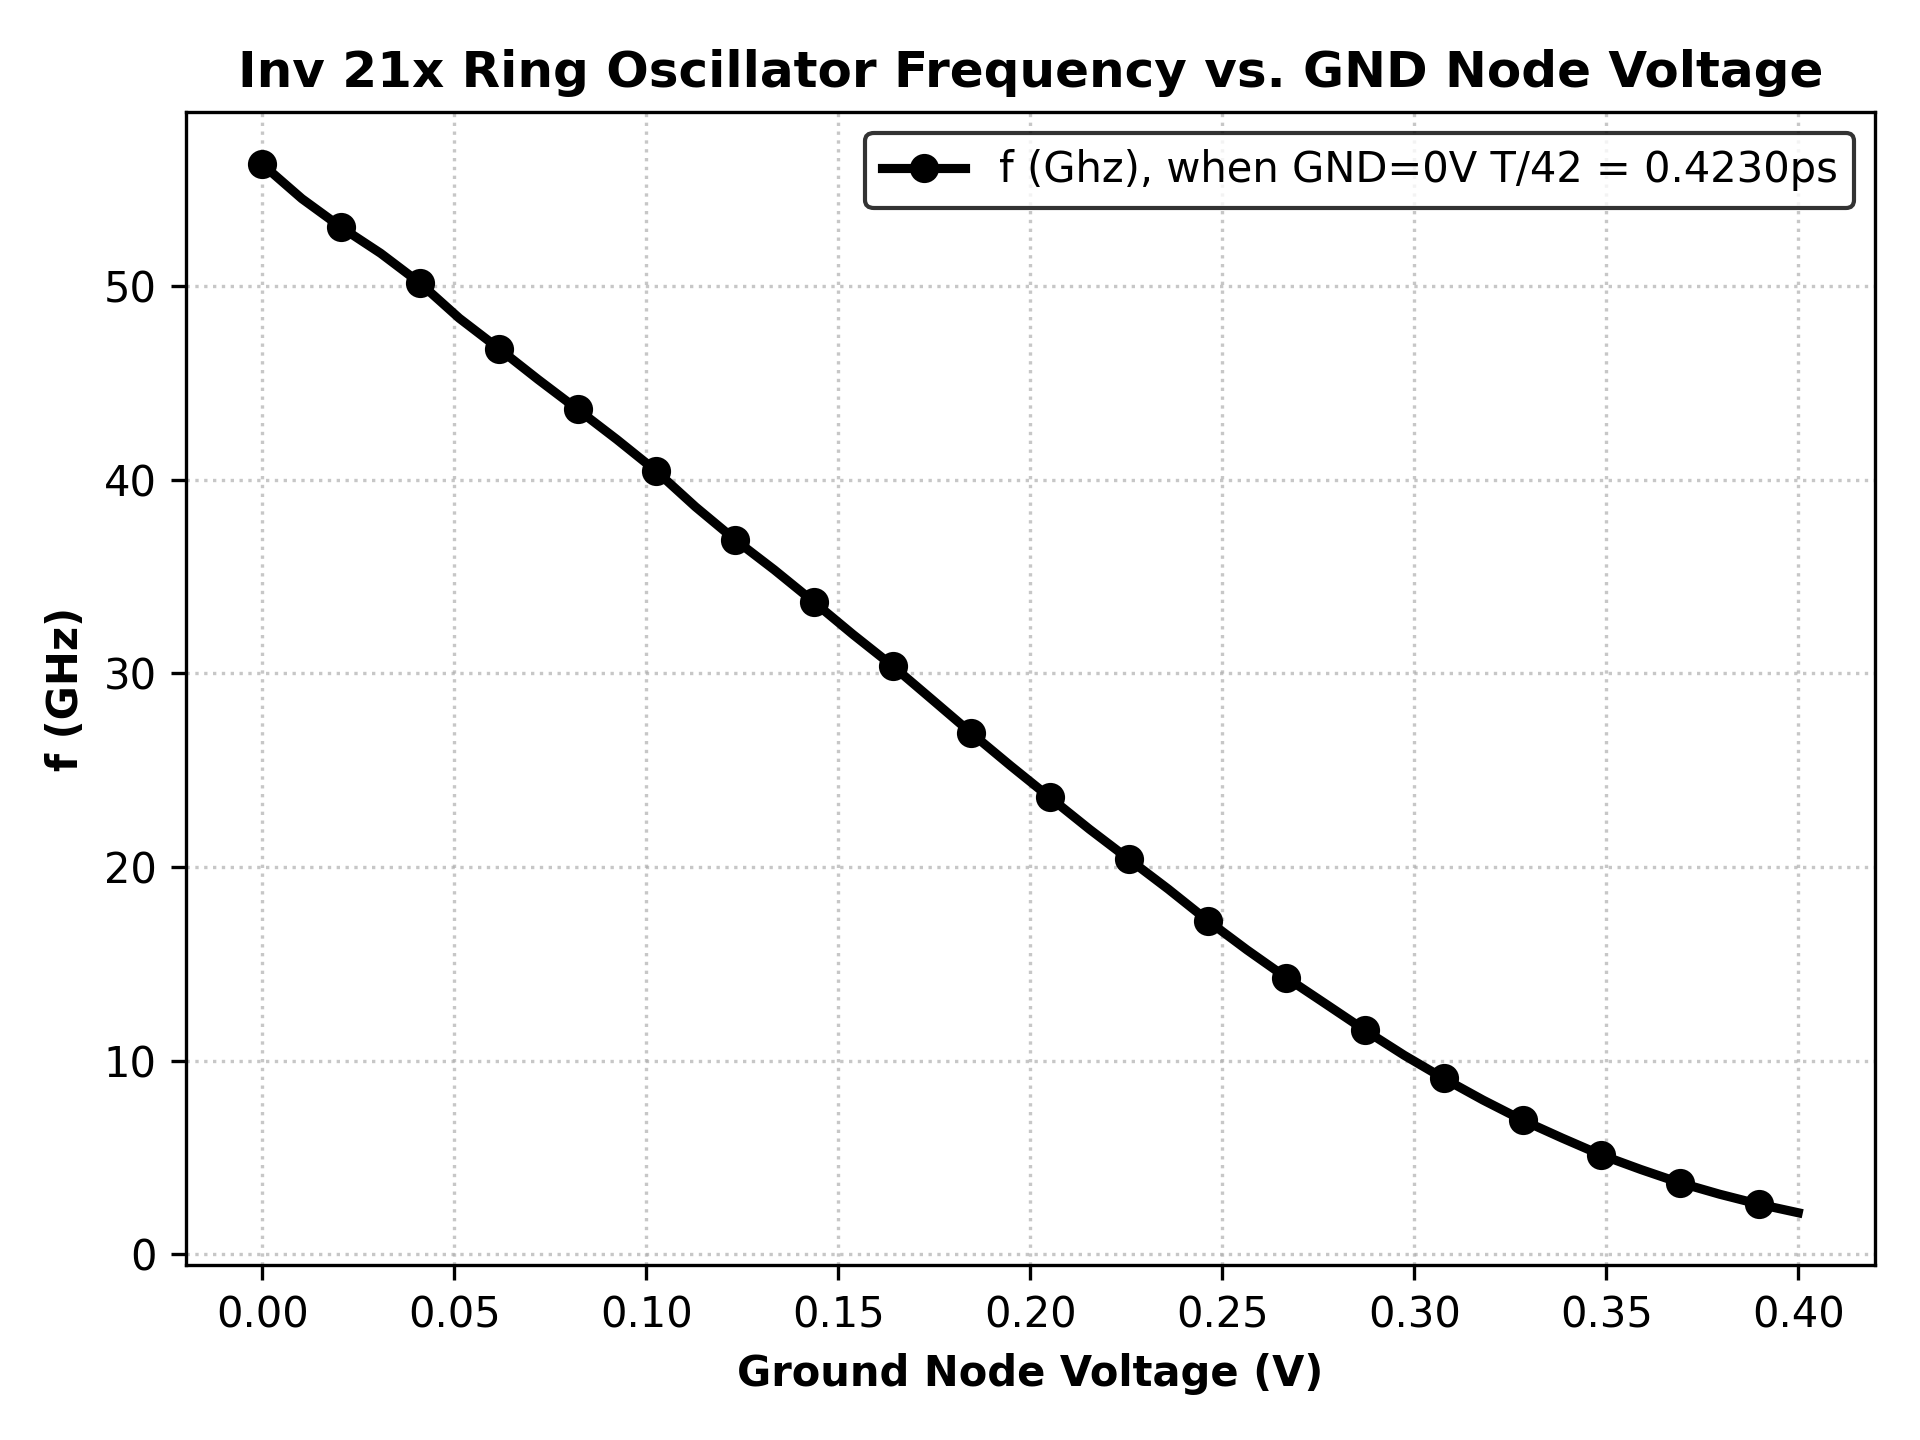
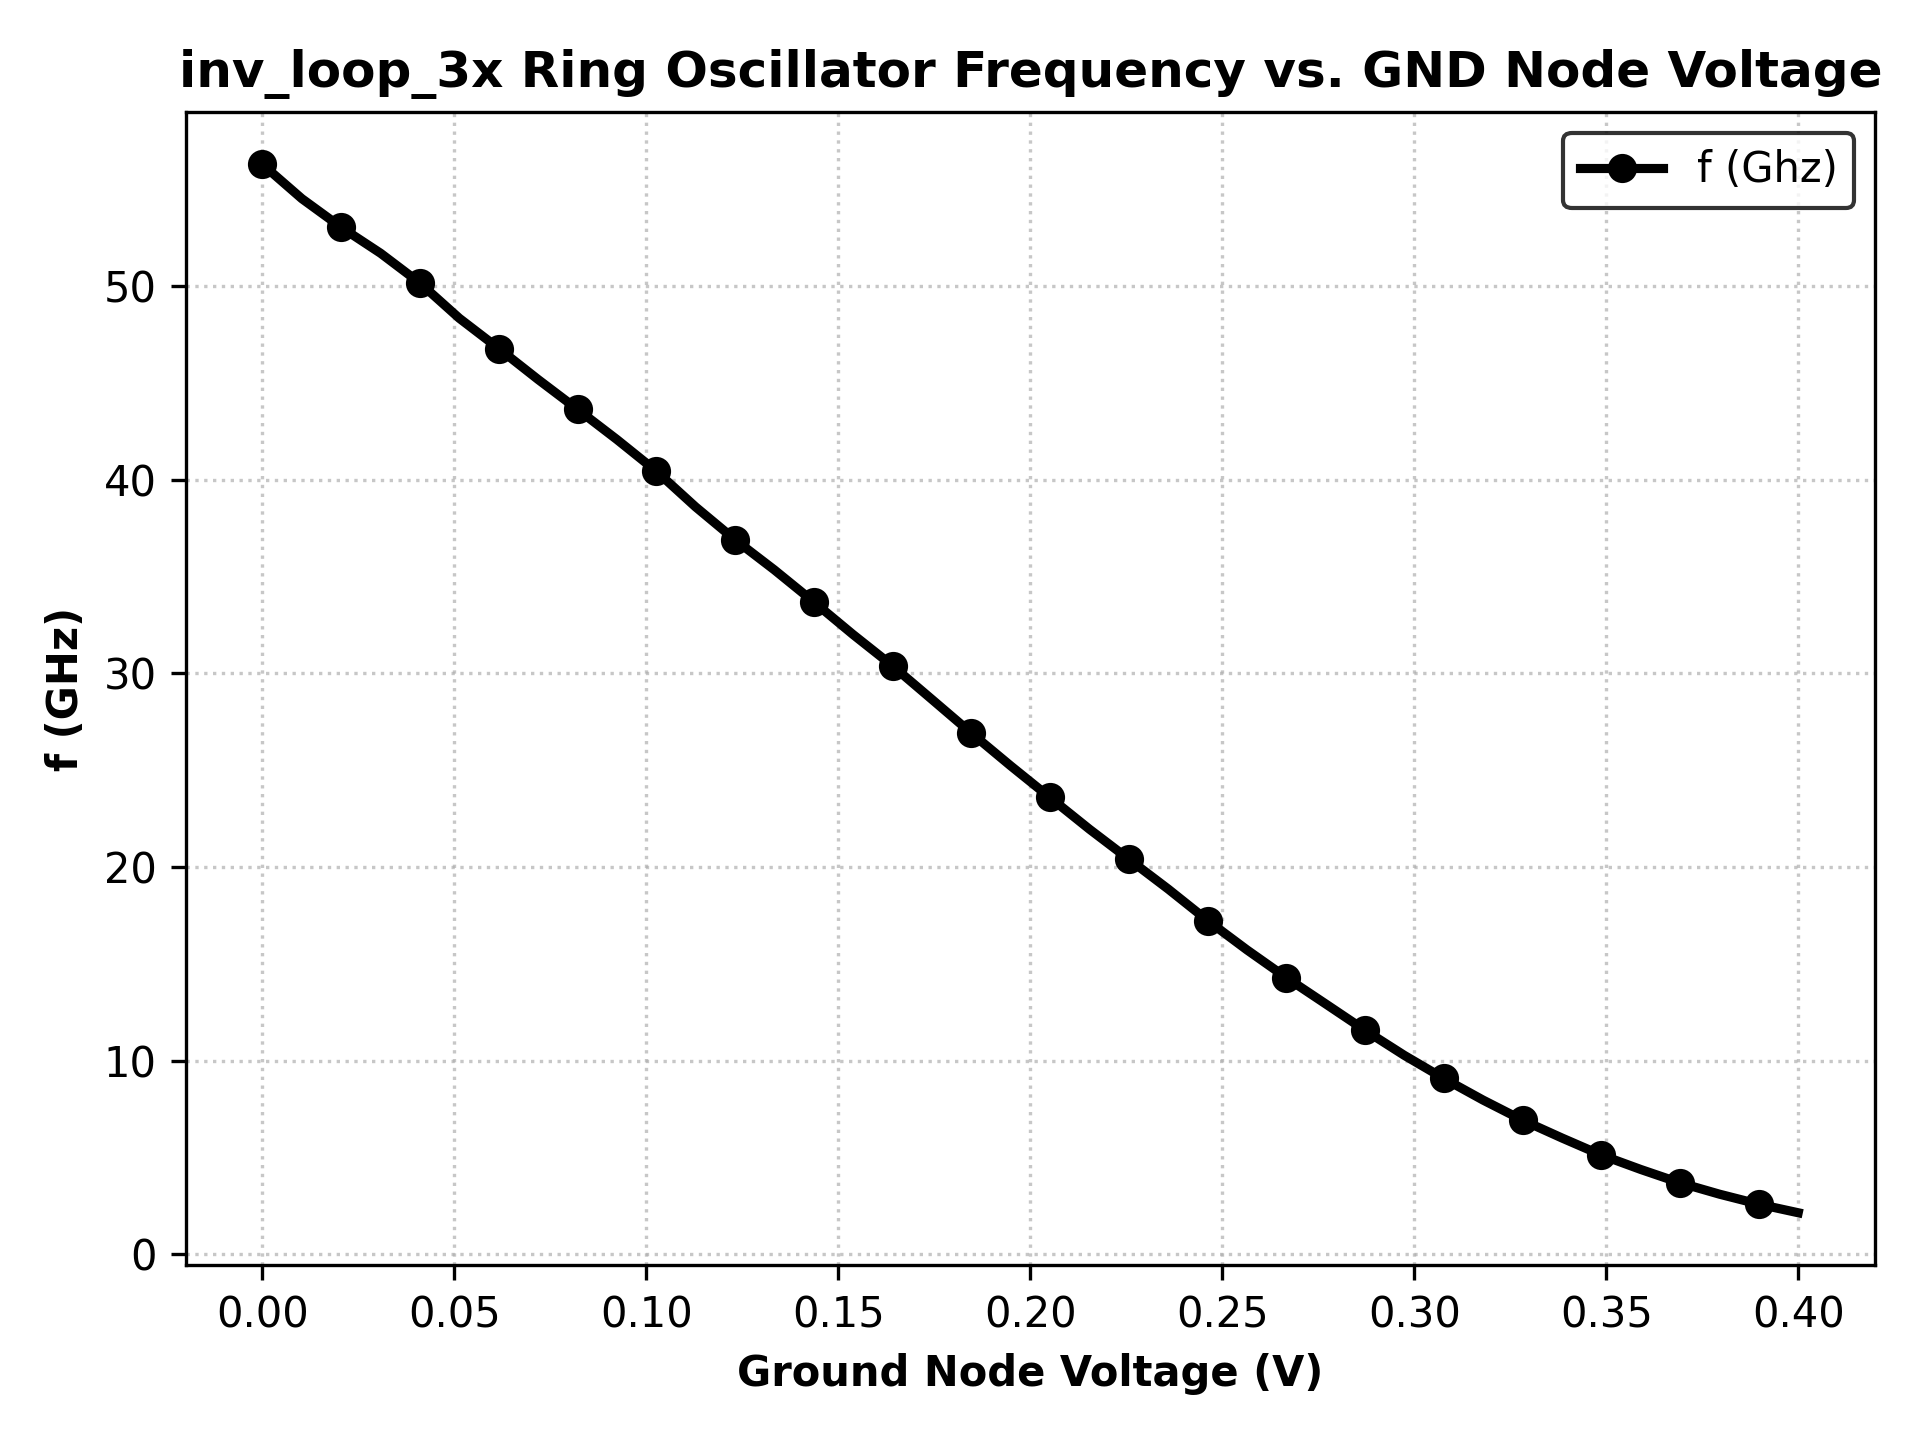
reporting results in the md section. Renamed md files after exercise_#

Changed region(s): [[0.0938, 0.0312, 1.0, 0.1562]]

diff --git a/inv_loop_ro.py b/inv_loop_ro.py
@@ -31,7 +31,8 @@ class inv_loop_ro:
 
     def plot_inv_loop_ro(self, graph_dir:str="graphs"):
         self.get_series()
-        f_dict = {f"f (Ghz), when GND=0V T/42 = {self.t_over_42:.4f}ps": self.f_vals}
+        f_dict = {f"f (Ghz)": self.f_vals}
+        # f_dict = {f"f (Ghz), when GND=0V T/42 = {self.t_over_42:.4f}ps": self.f_vals}
         plt.figure(1)
         self.graph_path1 = f"{graph_dir}/{self.base_name}_f_vs_v.png"
         graph.plot_series(
@@ -39,7 +40,7 @@ class inv_loop_ro:
             y_dict=f_dict,
             xlabel="Ground Node Voltage (V)",
             ylabel="f (GHz)",
-            title="Inv 21x Ring Oscillator Frequency vs. GND Node Voltage",
+            title=f"{self.base_name} Ring Oscillator Frequency vs. GND Node Voltage",
             filename=self.graph_path1
         )
         plt.clf()

diff --git a/results/Exercise_2.md b/results/Exercise_2.md
@@ -1,0 +1,29 @@
+# Exercise 2.a
+
+## Using a 21x Inverter Ring Oscillator
+The Period of the ring oscillator should match the following equation based on the results from Exercise 1 (see `inv_7x.md`)
+```
+tplh = tphl = T / (<num_stages>*2)
+```
+Using the results from Exercise 1 and Exercise 2.a:
+| k | tplh (ps) | tphl (ps) | T / 42 (ps) |
+|-|-|-|-|
+| 1.324 | 3.155 | 3.168 | 3.136 |
+## Current Starving a 3x Inverter Ring Oscillator
+
+When we increase the voltage of the ground node, we are decreasing the net voltage difference across VDD and ground and therefore reducing the drive strength each stage. This results in a slower frequency as shown below.
+<p align="center">
+    <img src="../graphs/inv_loop_3x_f_vs_v.png" width=98%>
+</p>
+
+> This was done by sweeping the ground node of the ring oscillator from `0V` to `Vdd/2`
+
+# Exercise 2.5 (AKA 2.b)
+
+## Single Looped Inverter for Determining Voltage Switchpoint
+Below we plot the switch point of an inverter for various k by tying the input of the inverter directly to the output. In a standard VTC, Vout is plotted against Vin, and the point where Vout=Vin is known as the voltage switpoint. Here we are using a single loop inverter to determine the switchpoint without sweeping Vin. 
+
+By sweeping k instead, we see the effect of varrying the strength of the pmos transistor relative to the nmos. 
+<p align="center">
+    <img src="../graphs/inv_loop_swp.png" width=98%>
+</p>

diff --git a/results/Exercise_1.md b/results/Exercise_1.md
@@ -41,10 +41,8 @@
 ## Graphical Ouputs when x=10p (rise time for PWL input)
 
 <p align="center">
-    <img src="../graphs/inv_7x_10p_tp_vs_k.png" alt="tphl and tplh (ps) vs. k" width="500">
-</p>
-<p align="center">
-    <img src="../graphs/inv_7x_10p_tr_tf_vs_k.png" alt="tr and tf (ps) vs. k" width="500">
+  <img src="../graphs/inv_7x_10p_tp_vs_k.png" alt="tphl and tplh vs k" width="48%" />
+  <img src="../graphs/inv_7x_10p_tr_tf_vs_k.png" alt="tr and tf vs k" width="48%" />
 </p>
 <p align="center">
     <img src="../graphs/inv_7x_10p_diff_tp_vs_k.png" alt="tr and tf (ps) vs. k" width="500">
@@ -94,10 +92,8 @@
 
 ## Graphical Outout when x=5.7p ~ tr=tp
 <p align="center">
-    <img src="../graphs/inv_7x_6p_tp_vs_k.png" alt="tphl and tplh (ps) vs. k" width="500">
-</p>
-<p align="center">
-    <img src="../graphs/inv_7x_6p_tr_tf_vs_k.png" alt="tr and tf (ps) vs. k" width="500">
+    <img src="../graphs/inv_7x_6p_tp_vs_k.png" alt="tphl and tplh (ps) vs. k" width="48%">
+    <img src="../graphs/inv_7x_6p_tr_tf_vs_k.png" alt="tr and tf (ps) vs. k" width="48%">
 </p>
 <p align="center">
     <img src="../graphs/inv_7x_6p_diff_tp_vs_k.png" alt="tr and tf (ps) vs. k" width="500">
